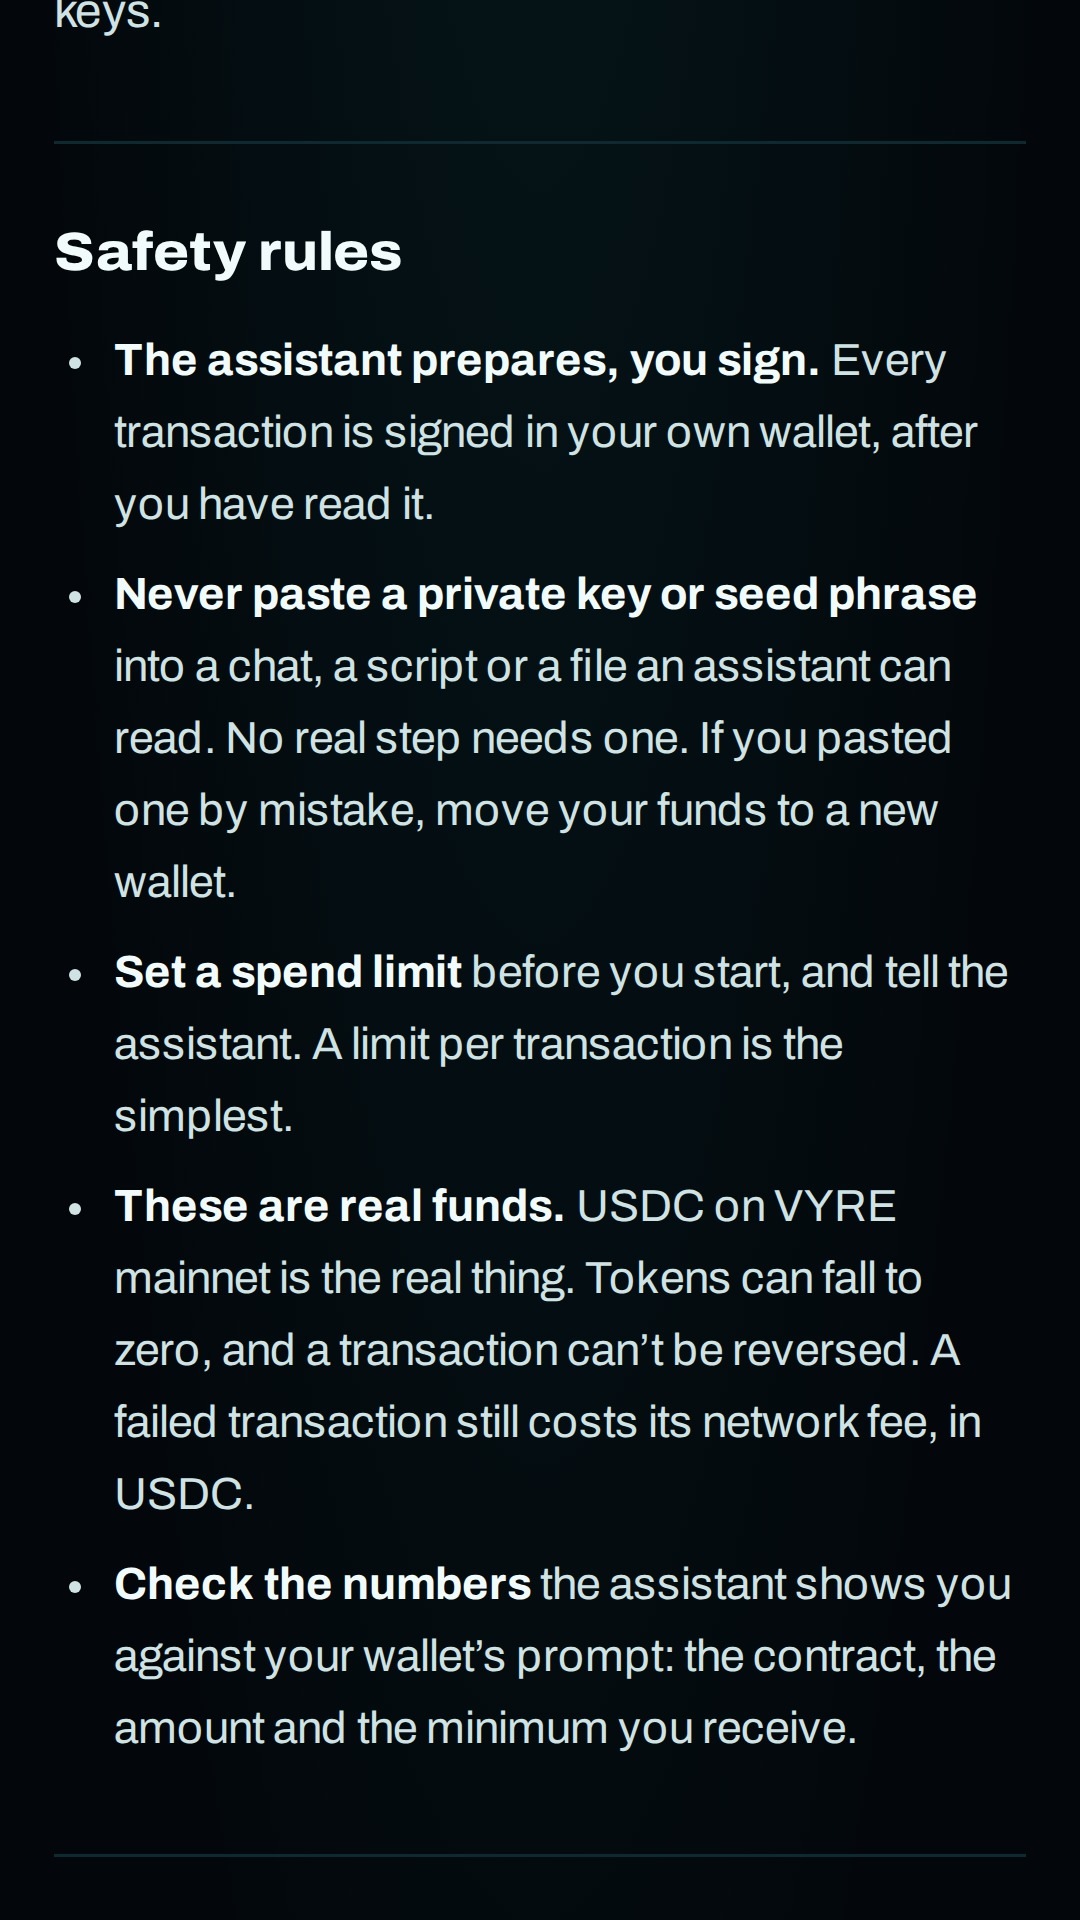
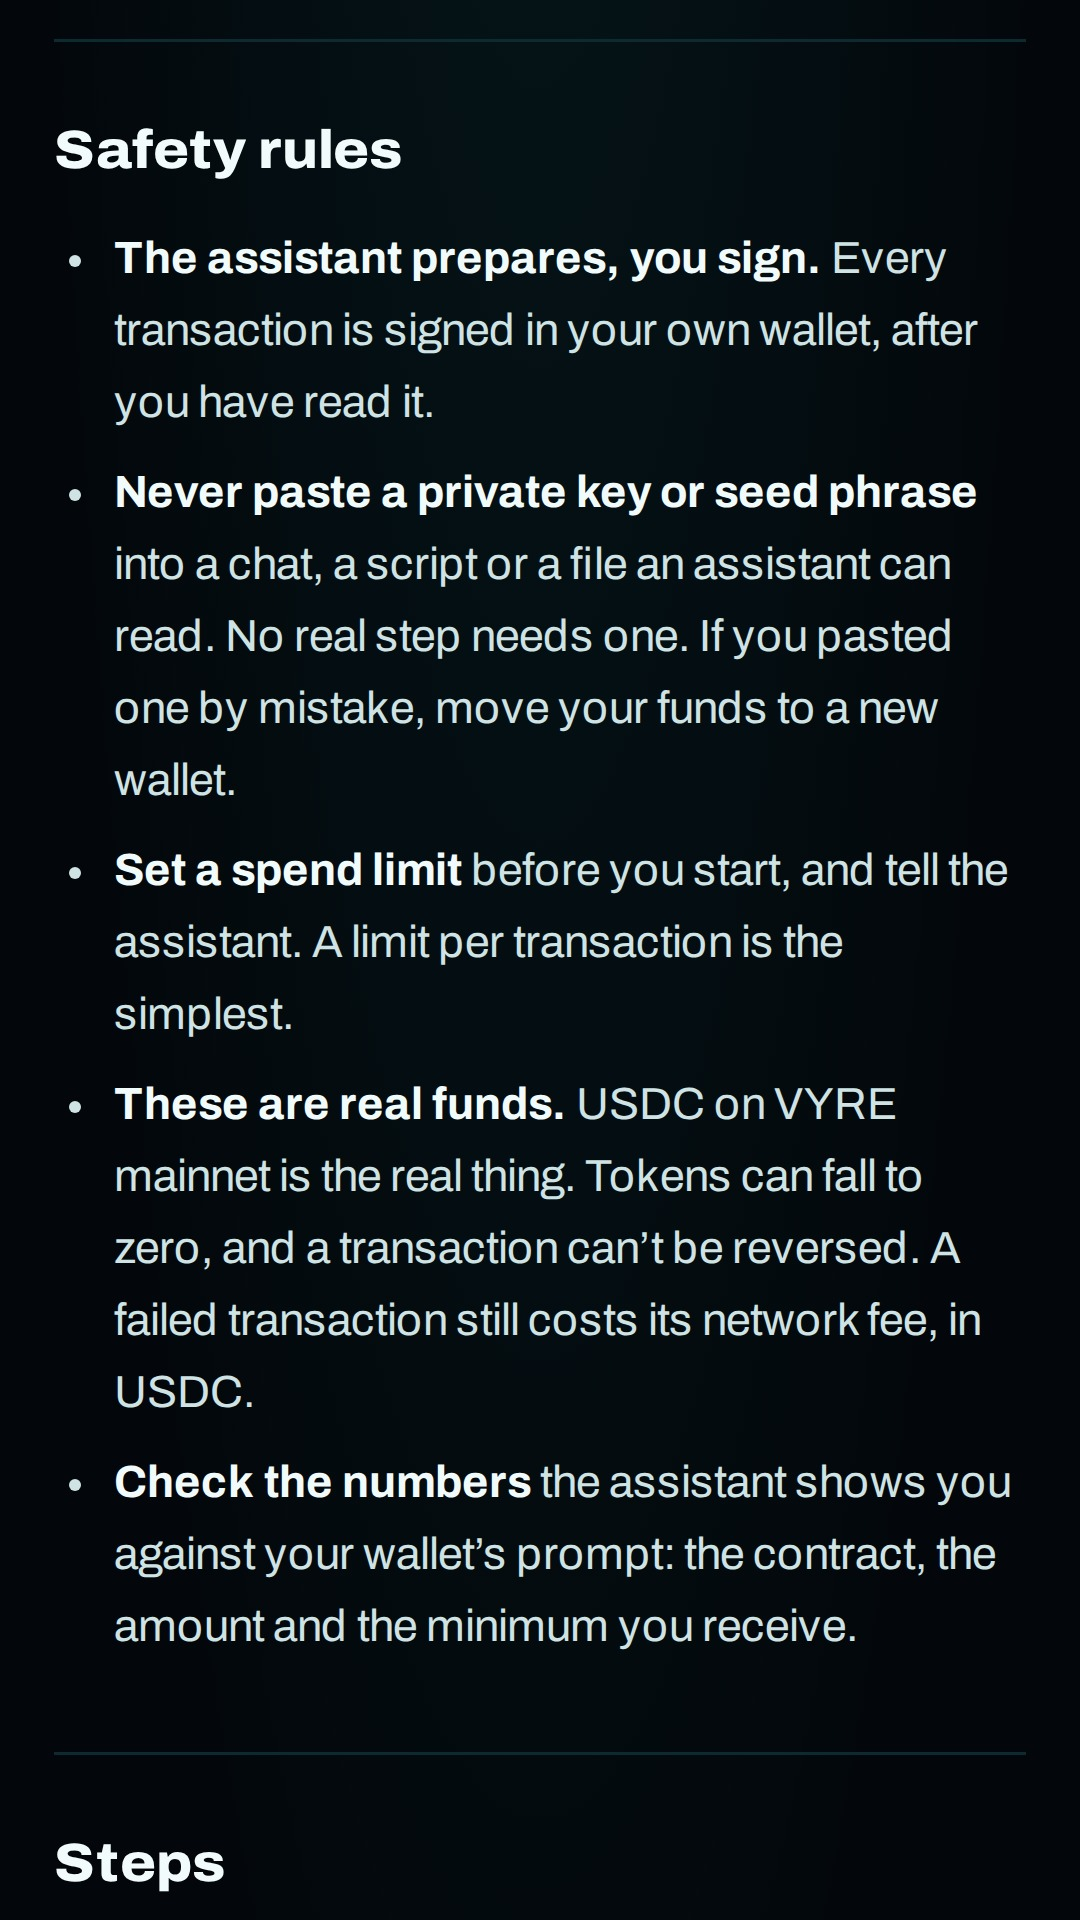
Screenshots start and end between lines, tablet 7-inch pictures are exactly 9:16, release only from main, token pages wait for the blocklist
Pictures are cut where no line of text is cut (the start is moved to fit). The 7-inch set is four exact 9:16 pictures. The release job runs only on main. A token's own page, the manage page and the notices after a launch hold their content until the blocklist has loaded or failed, a reading being given up after 10 seconds. The guide says exactly when a blocked token is never shown.

diff --git a/src/components/Hidden.tsx b/src/components/Hidden.tsx
@@ -40,13 +40,15 @@ export const showAll = () => { showAllTokens(store(), KEY); showAllTokens(store(
 const BLOCKLIST_EVENT = 'minta-blocklist-changed';
 const REFRESH_EVERY_MS = 30 * 60 * 1000;
 const MIN_GAP_MS = 60 * 1000;
+/** A reading that takes longer than this counts as failed (everything is shown): it ends the wait of the pages that wait for it */
+const READ_TIMEOUT_MS = 10_000;
 let blocklist: Promise<Blocklist> | null = null;
 let loaded: Blocklist | null = null;
 let lastRead = 0;
 let refreshing = false;
 async function readBlocklist(): Promise<Blocklist | null> {
   try {
-    const r = await fetch('/blocklist.json', { cache: 'no-cache' });
+    const r = await fetch('/blocklist.json', { cache: 'no-cache', signal: AbortSignal.timeout(READ_TIMEOUT_MS) });
     if (!r.ok) return null;
     const v = await r.json();
     return v && typeof v === 'object' && (v as { version?: unknown }).version === 1 ? parseBlocklist(v) : null;
@@ -82,15 +84,17 @@ function startRefresh() {
  * show nothing of the tokens, so a blocked token is never drawn for a moment; `ready` comes when the file has loaded or failed (a
  * failure shows everything) or after 1.5 seconds, so a slow file never blanks the app (a late file is applied when it arrives).
  */
-export function useBlocklistState(): { block: Blocklist; ready: boolean } {
+export function useBlocklistState(strict = false): { block: Blocklist; ready: boolean } {
   const [s, setS] = useState<{ block: Blocklist; ready: boolean }>(() => (loaded ? { block: loaded, ready: true } : { block: NO_BLOCKS, ready: false }));
   useEffect(() => {
     let live = true;
-    const t = setTimeout(() => { if (live) setS((p) => (p.ready ? p : { ...p, ready: true })); }, BLOCKLIST_WAIT_MS);
+    // lists, the ticker and the search stop waiting after 1.5 s; `strict` pages (a token's own page, the manage page) wait until the
+    // file has loaded or failed (a reading is given up after 10 s), so a slow file never lets a blocked token's page flash up
+    const t = strict ? undefined : setTimeout(() => { if (live) setS((p) => (p.ready ? p : { ...p, ready: true })); }, BLOCKLIST_WAIT_MS);
     loadBlocklist().then((b) => { if (live) setS({ block: b, ready: true }); });
     const changed = () => { if (live && loaded) setS({ block: loaded, ready: true }); };
     window.addEventListener(BLOCKLIST_EVENT, changed);
-    return () => { live = false; clearTimeout(t); window.removeEventListener(BLOCKLIST_EVENT, changed); };
+    return () => { live = false; if (t) clearTimeout(t); window.removeEventListener(BLOCKLIST_EVENT, changed); };
   }, []);
   return s;
 }
@@ -103,7 +107,7 @@ export const useBlocklist = (): Blocklist => useBlocklistState().block;
  * thin the lists, and the token page says "Hidden on this device".
  */
 export function useTokenGate(): { ready: boolean; blocked: (l: { token: string; creator: string }) => boolean } {
-  const { block, ready } = useBlocklistState();
+  const { block, ready } = useBlocklistState(true);
   return { ready, blocked: (l) => isHidden(l, [], [], block) };
 }
 

diff --git a/src/pages/Token.tsx b/src/pages/Token.tsx
@@ -46,7 +46,7 @@ async function emailTrade(withEmail: <T>(fn: (s: EmailSession) => Promise<T>) =>
 
 // (The page is keyed by its token in App, so each token starts with fresh state.)
 export default function Token({ token }: { token: Address }) {
-  const { block, ready } = useBlocklistState();
+  const { block, ready } = useBlocklistState(true);
   const { account, onVyre } = useWallet();
   const [launch, setLaunch] = useState<Launch | null | undefined>(undefined);
   const [market, setMarket] = useState<Market | null>(null);

diff --git a/docs/ANDROID.md b/docs/ANDROID.md
@@ -136,7 +136,7 @@ icon `store/android/icon-512.png`; feature graphic `store/android/feature-graphi
 7-inch tablet from `store/android/tablet-7in/`; 10-inch tablet from `store/android/tablet-10in/`; Chromebook / large screen from `store/android/desktop/`.
 Category: Finance. Contact: Play requires a public email. The Terms and privacy page list MINTA's Telegram group and X account but **no email address**, so if you give Play an email, add the same address to the Terms and privacy contact lines and to `REPORT_EMAIL` (OWNER TO CONFIRM), and make sure the team reads it. Website `https://minta.vyrechain.com`. The same address can go in `REPORT_EMAIL` in `src/lib/contact.ts` (OWNER TO CONFIRM: it is empty today, so the report panel shows Telegram and X only; set it and the Email link appears with a prefilled subject and message).
 
-The pictures are unmodified clips of real screens (nothing is hidden or drawn on them), each filled with real content and with no clipped words: the docs pages on supply and tax and on integrations (phones), tokenomics and contracts (7-inch tablets), fees, tokenomics and contracts (10-inch tablets and desktop, clipped to the article column at exactly 16:9), clipped below the app's top bar; the AI assistants page at its safety rules (phones and 7-inch tablets); the Terms (one text page per set); and, on phones, a token page cropped to the Report panel and the Hide buttons, with no picture and no price. The page a blocked token shows is not pictured (it is a short message). No picture shows a token picture, a price or a trade panel: the app cannot trade, and the one token on the chain has cartoon art. The explore list is not used for the same reason. `store/android/alt-text.txt` has a short description of every graphic for accessibility. Regenerate any time: `npm ci`, `npx playwright install chromium`, then `node store/android/make-screenshots.mjs` (against the deployed site; before the web part is deployed use a local build, `npm run build`, `npx vite preview --port 4173`, `MINTA_SITE=http://127.0.0.1:4173 node store/android/make-screenshots.mjs`: the pictures in this repository were taken that way). After the deploy in step 0, regenerate them from the live site.
+The pictures are unmodified clips of real screens (nothing is hidden or drawn on them), each filled with real content, starting and ending between lines of text: the docs page on supply and tax (phones; 10-inch tablets and desktop; 7-inch tablets in a 480 px wide layout so the article fills a 9:16 picture), contracts (tablets and desktop), and fees (10-inch tablets and desktop), clipped below the app's top bar and, on wide screens, to the article column at exactly 16:9; the AI assistants page at its safety rules (phones and 7-inch tablets); the Terms (one text page per set); and, on phones, a token page cropped to the Report panel and the Hide buttons, with no picture and no price. The page a blocked token shows is not pictured (it is a short message). No picture shows a token picture, a price or a trade panel: the app cannot trade, and the one token on the chain has cartoon art. The explore list is not used for the same reason. `store/android/alt-text.txt` has a short description of every graphic for accessibility. Regenerate any time: `npm ci`, `npx playwright install chromium`, then `node store/android/make-screenshots.mjs` (against the deployed site; before the web part is deployed use a local build, `npm run build`, `npx vite preview --port 4173`, `MINTA_SITE=http://127.0.0.1:4173 node store/android/make-screenshots.mjs`: the pictures in this repository were taken that way). After the deploy in step 0, regenerate them from the live site.
 
 ### 7. Upload to Internal testing
 
@@ -177,7 +177,7 @@ Each point is from Google's own pages; "NOT VERIFIED" marks what could not be re
 
 1. **Testing requirement (answer/14151465).** The page says the closed test (at least 12 testers opted in continuously for at least 14 days, then "Apply for production") applies to "personal developer accounts created after November 13, 2023". It does not mention organisation accounts or older accounts, and shows no date. So it reads as applying to new personal accounts only; the Play Console Dashboard is the proof: if it offers production without a closed test, the rule does not apply to the account. If it does apply, run the closed test with 12 real people for 14 days; production cannot be requested directly where the rule applies.
 2. **Crypto (answers 13607354, 16329703, 9876821).** Exchanges and software wallets may be published only with the licences listed per country (for example FinCEN plus state registration in the US, a MiCA licence in the EU, the FCA in the UK); "Non-custodial wallets are out of scope"; unlisted countries may publish but must follow local law. Blockchain-based content means "tokenized digital assets secured on a blockchain"; apps that sell or let users earn them must say so in the Financial features declaration, and "You may not promote or glamorize any potential earning from playing or trading activities." Nothing there bans a launchpad. The risk is how Google classes MINTA (exchange or not); the policy pages do not say. Verdict in point 12.
-3. **User generated content (answer/9876937).** Apps with UGC need terms users accept, a definition of objectionable content, in-app reporting AND blocking of users and content that is easy to find, and follow-up on reports. **What is built:** terms with section 8 (what tokens may not be) and section 9 (what MINTA may stop showing); an "I accept the Terms" box on the launch wizard's last step and on Manage's picture, description and links save (without it neither goes ahead); on every token page a **Report this token** panel (a message to copy, with links to MINTA's Telegram group and X account, and an Email link once `REPORT_EMAIL` is set); **Hide this token** and **Hide everything from this creator** on each Explore card and token page (kept on the device, with "Show all" on Explore and the Wallet page); and `public/blocklist.json`, a list of token and creator addresses MINTA's team has decided to hide, read by the app at start and applied to Explore, the search, the top list, the ticker along the top (by token and by creator) and token pages, and to the Portfolio rows (a wallet's own Hide choices are not applied to its holdings); nothing of the lists, the ticker or a token page is drawn until the file has been read, for at most 1.5 seconds, so a blocked token is not shown for a moment (if the file fails to load, everything is shown) (a blocked token's page says "MINTA hides this token because it was reported." and has a way back). **What the file does when it is missing or wrong:** the app shows everything (a first reading that fails or has the wrong shape means no blocks; a later reading that fails keeps the last good list). The release workflow therefore checks that the LIVE `https://minta.vyrechain.com/blocklist.json` is valid JSON of the right shape and stops if it is not (skipped for `first_upload`); `vercel.json` serves it with `Cache-Control: no-cache, must-revalidate`, and the app re-reads it when it returns to the foreground (at most once a minute) and every 30 minutes while open. Manage pages, the page after a launch and Portfolio rows apply the same gate. **Removal path:** the team edits `public/blocklist.json` (schema: `{"version": 1, "tokens": [addresses], "creators": [addresses]}`), merges, and Vercel deploys; the picture service can also delete a picture; the token's record on the chain stays. **Block applies:** the only content shown from other people is a token's name, picture, description and links, and the creator is the only "user" behind it, so Hide everything from this creator is the block (on the device), and the blocklist is MINTA's block for everyone. There are no profiles, messages or comments. **How reports are handled (OWNER TO CONFIRM): reports reach MINTA's team through the channels listed (Telegram, X, and the email address once set); the team may hide a token with the blocklist.** Google lists "Apps that continually fail to address user complaints about objectionable content" as a violation, so the team must read the channels and act. **Honest risk:** Google may still ask for an in-app channel that sends the report to MINTA without leaving the app (Telegram, X and email open outside it). If it does, the answer is option B below, which is designed and not built.
+3. **User generated content (answer/9876937).** Apps with UGC need terms users accept, a definition of objectionable content, in-app reporting AND blocking of users and content that is easy to find, and follow-up on reports. **What is built:** terms with section 8 (what tokens may not be) and section 9 (what MINTA may stop showing); an "I accept the Terms" box on the launch wizard's last step and on Manage's picture, description and links save (without it neither goes ahead); on every token page a **Report this token** panel (a message to copy, with links to MINTA's Telegram group and X account, and an Email link once `REPORT_EMAIL` is set); **Hide this token** and **Hide everything from this creator** on each Explore card and token page (kept on the device, with "Show all" on Explore and the Wallet page); and `public/blocklist.json`, a list of token and creator addresses MINTA's team has decided to hide, read by the app at start and applied to Explore, the search, the top list, the ticker along the top (by token and by creator) and token pages, and to the Portfolio rows (a wallet's own Hide choices are not applied to its holdings); the lists, the ticker and the search draw nothing of the tokens until the file has been read, but wait at most 1.5 seconds: if the file arrives within that time a blocked token is never shown, and a slower file is applied the moment it arrives (so on a very slow connection a blocked token can show briefly in a list); a token's own page, the manage page and the notices after a launch are stricter: they hold their content until the file has loaded or failed (a reading is given up after 10 seconds), then show; if the file fails to load, everything is shown (a blocked token's page says "MINTA hides this token because it was reported." and has a way back). **What the file does when it is missing or wrong:** the app shows everything (a first reading that fails or has the wrong shape means no blocks; a later reading that fails keeps the last good list). The release workflow therefore checks that the LIVE `https://minta.vyrechain.com/blocklist.json` is valid JSON of the right shape and stops if it is not (skipped for `first_upload`); `vercel.json` serves it with `Cache-Control: no-cache, must-revalidate`, and the app re-reads it when it returns to the foreground (at most once a minute) and every 30 minutes while open. Manage pages, the page after a launch and Portfolio rows apply the same gate. **Removal path:** the team edits `public/blocklist.json` (schema: `{"version": 1, "tokens": [addresses], "creators": [addresses]}`), merges, and Vercel deploys; the picture service can also delete a picture; the token's record on the chain stays. **Block applies:** the only content shown from other people is a token's name, picture, description and links, and the creator is the only "user" behind it, so Hide everything from this creator is the block (on the device), and the blocklist is MINTA's block for everyone. There are no profiles, messages or comments. **How reports are handled (OWNER TO CONFIRM): reports reach MINTA's team through the channels listed (Telegram, X, and the email address once set); the team may hide a token with the blocklist.** Google lists "Apps that continually fail to address user complaints about objectionable content" as a violation, so the team must read the channels and act. **Honest risk:** Google may still ask for an in-app channel that sends the report to MINTA without leaving the app (Telegram, X and email open outside it). If it does, the answer is option B below, which is designed and not built.
 4. **AI-generated content (answer/13985936).** Applies to apps that generate content with AI (chatbots as a core feature, images or video from prompts). MINTA generates none; its AI page only explains how an outside assistant can prepare a transaction. Not in scope.
 5. **Deceptive behavior and misrepresentation (answers 17006354, 9888689).** False or misleading claims about what the app does are banned, and the title, icon and description must honestly show what the app does. The app cannot connect a wallet today (Part 3), so it lets people browse, read and report; launching and trading are done in a wallet app's browser. The listing states that in its first lines, its bullets list only what works in the app, and the screenshots show only screens that work in the app (the token page with its trade panel hidden). Do not claim more.
 6. **Store listing (answer/9866151).** Screenshots must show the real app, and graphics must not suggest rankings, prices or testimonials; do not use "Best", "#1", "Top", "New", "Free", "Discount". The files in `store/android/` follow this, and `test/android.test.mjs` checks the wording rules and that the pictures do not show screens that cannot work in the app.
